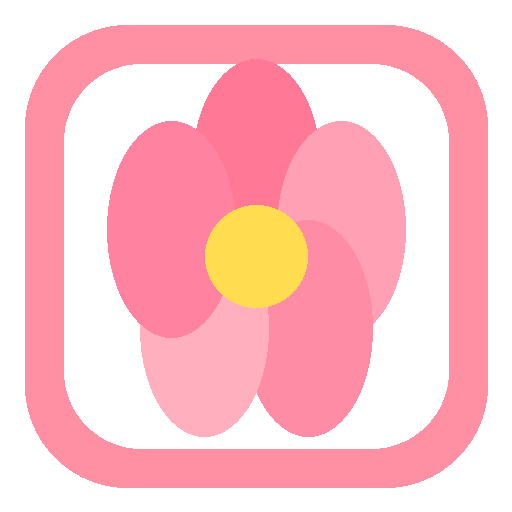
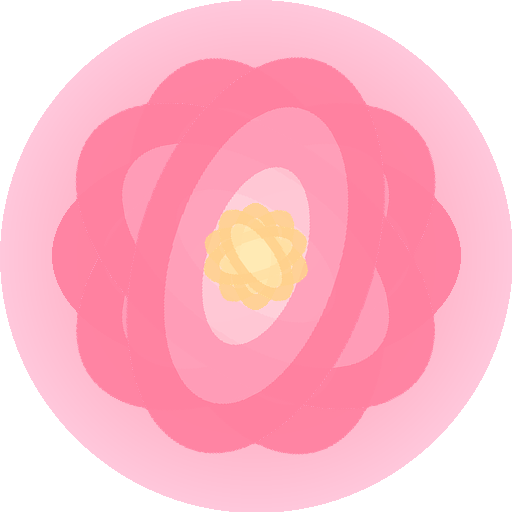
重新生成粉色花朵图标，添加favicon.ico，并修复桌面版图标引用

diff --git a/index.html b/index.html
@@ -4,6 +4,12 @@
 <head>
 <meta charset="UTF-8">
 <meta name="viewport" content="width=device-width, initial-scale=1.0">
+<meta name="theme-color" content="#ff8fa3">
+<link rel="manifest" href="/manifest.json">
+<link rel="icon" type="image/x-icon" href="/favicon.ico">
+<link rel="icon" type="image/png" sizes="192x192" href="/icon-192.png">
+<link rel="icon" type="image/png" sizes="512x512" href="/icon-512.png">
+<link rel="apple-touch-icon" href="/icon-192.png">
 <title>🌸 可爱工作台</title>
 <style>
 :root{--bg:#fef9f4;--card-bg:#fff;--primary:#ff8fa3;--primary-light:#ffd6e0;--accent:#ffb347;--accent-light:#ffe0b2;--blue:#87ceeb;--blue-light:#d6f0fb;--green:#90ee90;--green-light:#d4f5d4;--purple:#c3aed6;--purple-light:#e8dff5;--text:#4a4a4a;--text-light:#8a8a8a;--text-muted:#b0b0b0;--border:#f0e6e0;--shadow:0 2px 12px rgba(0,0,0,0.05);--radius:14px;--radius-sm:10px;--font:'Segoe UI','PingFang SC','Microsoft YaHei',sans-serif;--sidebar-w:180px}

diff --git a/mobile.html b/mobile.html
@@ -11,7 +11,9 @@
     <meta name="apple-mobile-web-app-title" content="可爱工作台">
     <meta name="theme-color" content="#ff8fa3">
     <link rel="manifest" href="/manifest.json">
+    <link rel="icon" type="image/x-icon" href="/favicon.ico">
     <link rel="icon" type="image/png" sizes="192x192" href="/icon-192.png">
+    <link rel="icon" type="image/png" sizes="512x512" href="/icon-512.png">
     <link rel="apple-touch-icon" href="/icon-192.png">
 <style>
 :root{--bg:#fef9f4;--card-bg:#fff;--primary:#ff8fa3;--primary-light:#ffd6e0;--accent:#ffb347;--accent-light:#ffe0b2;--blue:#87ceeb;--blue-light:#d6f0fb;--green:#90ee90;--green-light:#d4f5d4;--purple:#c3aed6;--purple-light:#e8dff5;--text:#4a4a4a;--text-light:#8a8a8a;--text-muted:#b0b0b0;--border:#f0e6e0;--shadow:0 2px 12px rgba(0,0,0,0.05);--radius:14px;--radius-sm:10px;--font:'Segoe UI','PingFang SC','Microsoft YaHei',sans-serif}
